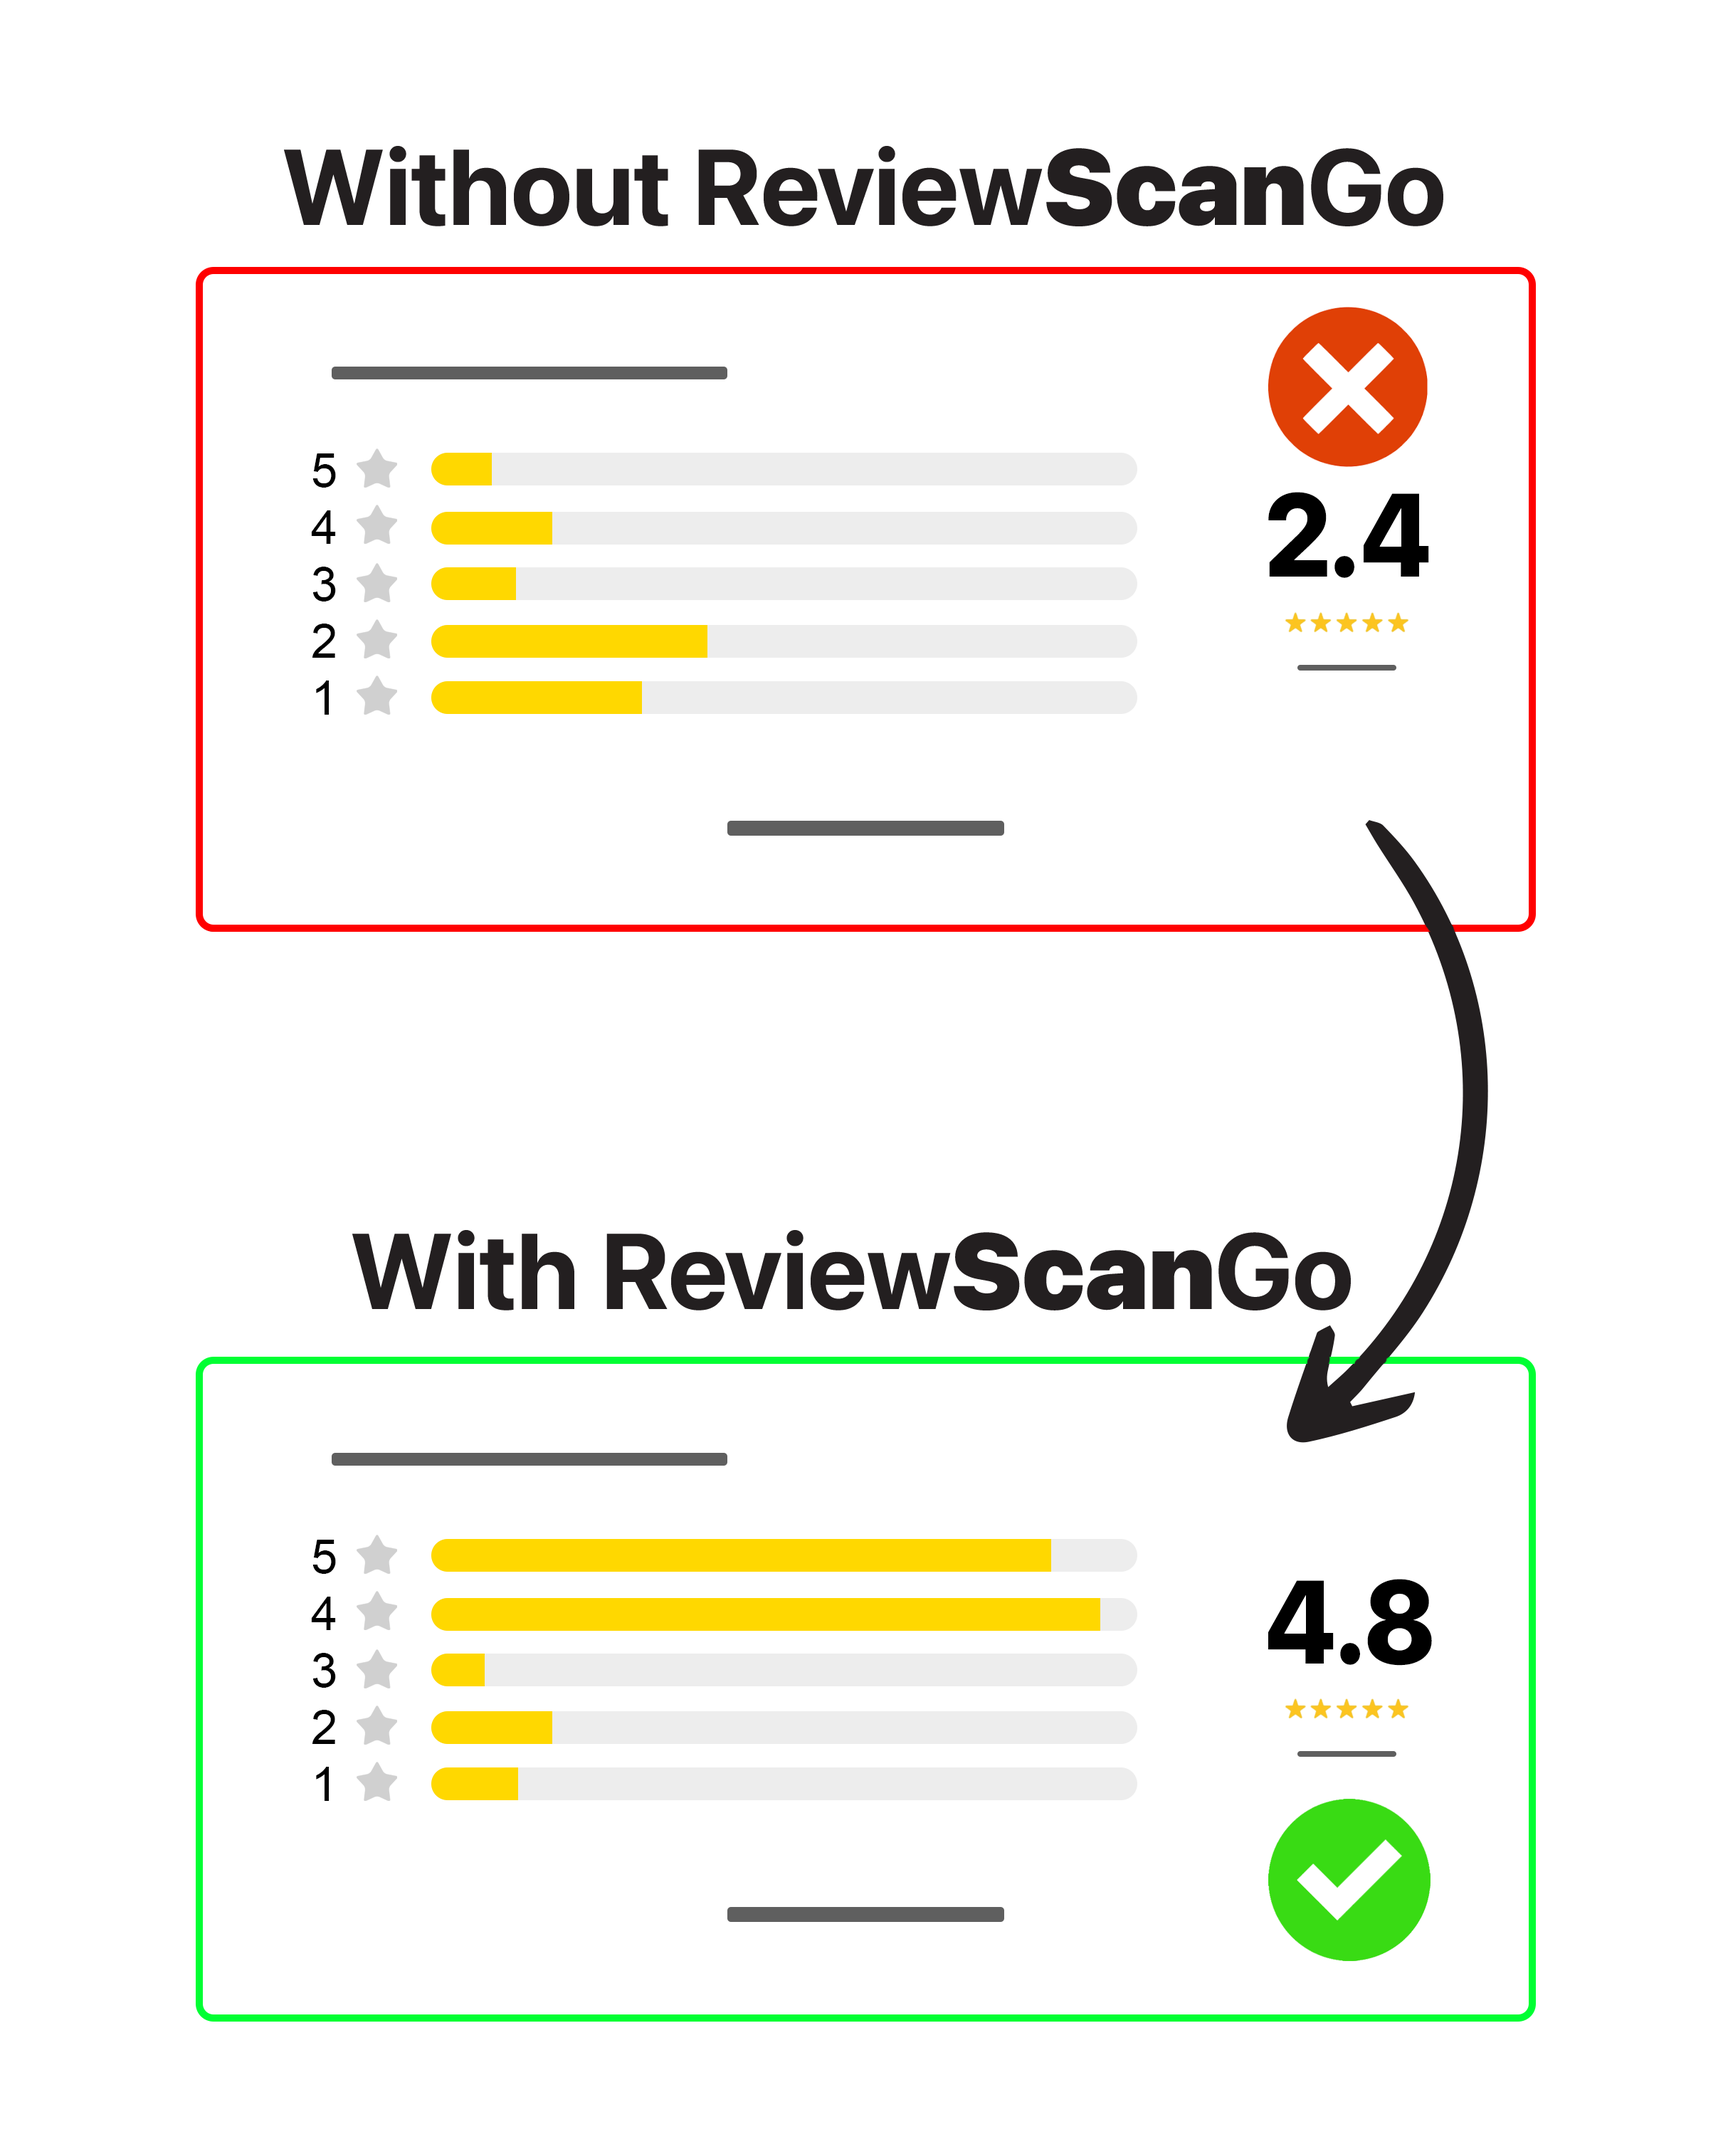
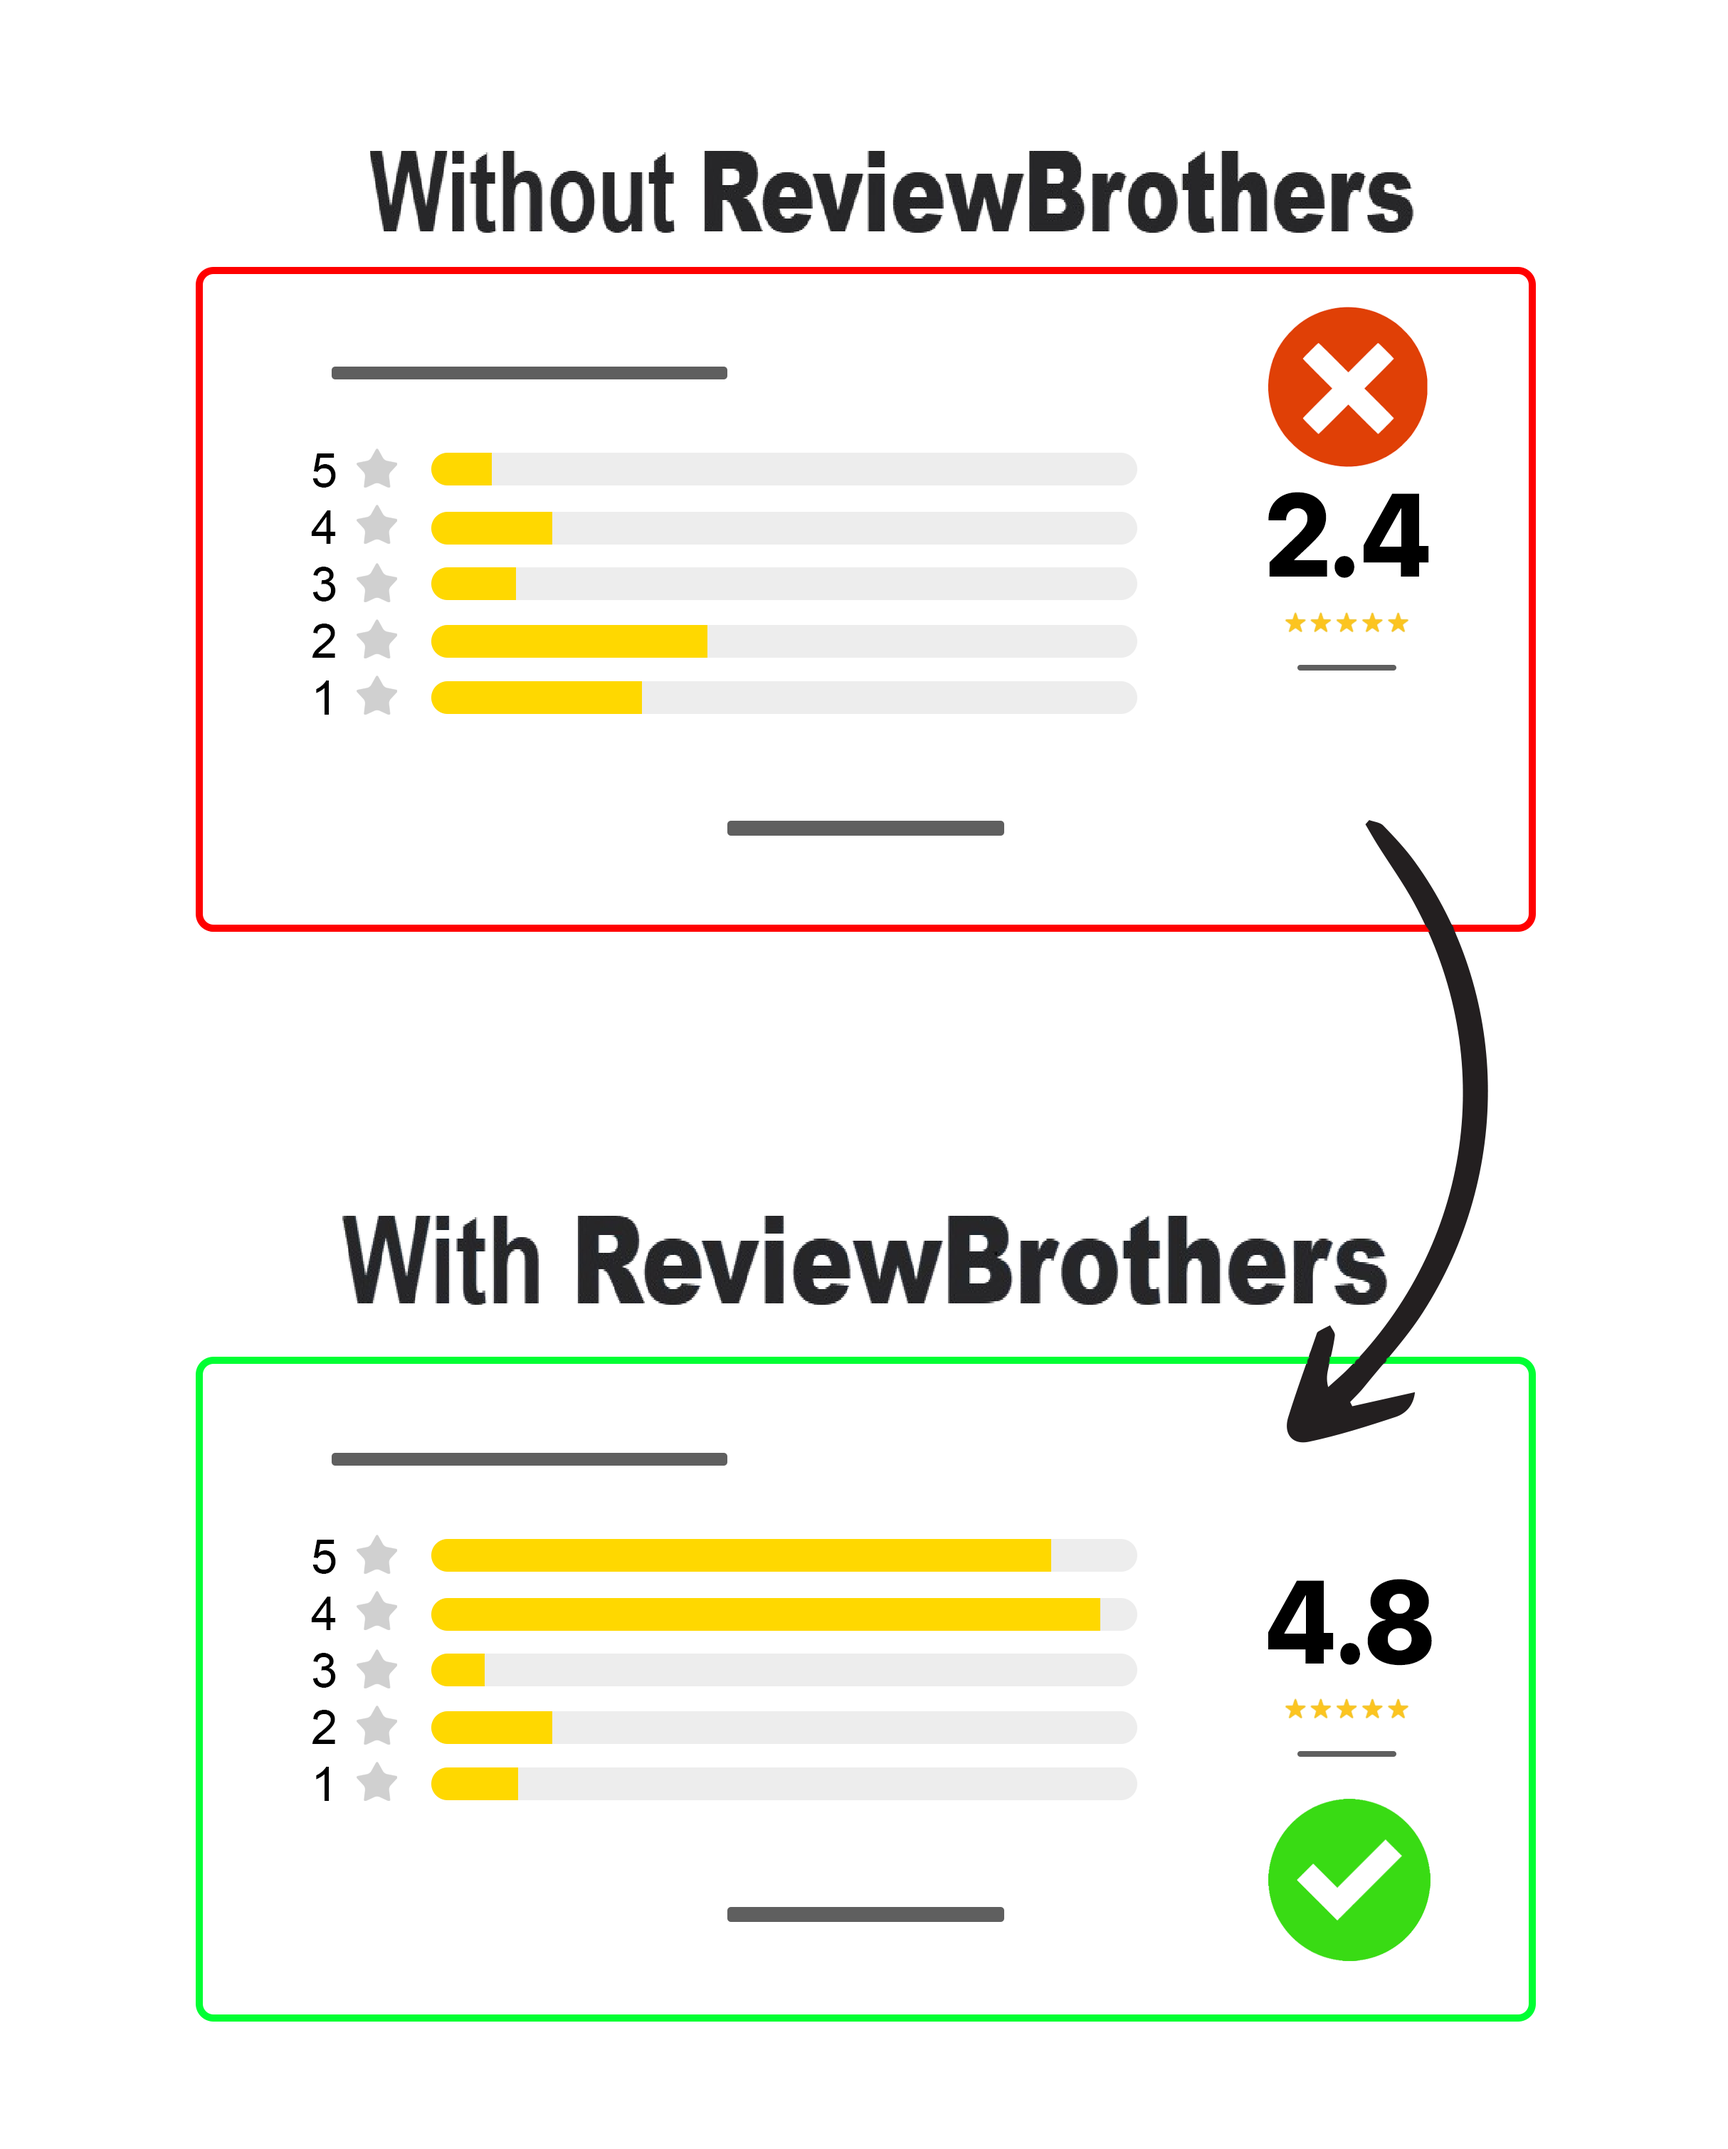
Complete landing page 1

Changed region(s): [[0.1544, 0.0623, 0.834, 0.1245], [0.1853, 0.5605, 0.8031, 0.6227]]

diff --git a/src/components/home/ProductReviewFeature.tsx b/src/components/home/ProductReviewFeature.tsx
@@ -1,0 +1,71 @@
+import React from "react";
+import { Star, Mail, Rocket } from "lucide-react";
+
+interface FeatureItemProps {
+  icon: React.ReactNode;
+  title: string;
+  description: string;
+}
+
+const FeatureItem: React.FC<FeatureItemProps> = ({
+  icon,
+  title,
+  description,
+}) => {
+  return (
+    <div className="flex items-start gap-6 mb-8">
+      <div className="flex-shrink-0">
+        <div className="w-16 h-16 rounded-full border-2 border-gray-300 flex items-center justify-center">
+          {icon}
+        </div>
+      </div>
+      <div className="flex-1">
+        <h3 className="text-xl font-semibold text-gray-800 mb-2">{title}</h3>
+        <div className="bg-teal-50 p-4 rounded-md">
+          <p className="text-gray-600">{description}</p>
+        </div>
+      </div>
+    </div>
+  );
+};
+
+const ProductReviewsFeature: React.FC = () => {
+  return (
+    <div className="max-w-4xl mx-auto p-6">
+      {/* <h1 className="text-4xl font-bold text-teal-500 mb-4"> */}
+      <h1 className="text-4xl font-bold text-secondary mb-4">
+        Without <span className="font-[900]">ReviewBrothers</span> <br />
+        With <span className="font-[900]">ReviewBrothers</span> <br /> Boost
+        Your Sales with Better Product Reviews
+      </h1>
+
+      <p className="text-gray-600 text-lg mb-12">
+        Increase Customer Engagement by making it easy for your shoppers to
+        connect with your brand, redeem gifts, and leave you valuable feedback
+        and product reviews
+      </p>
+
+      <div className="space-y-4">
+        <FeatureItem
+          icon={<Star className="w-8 h-8 text-gray-700" />}
+          title="Boost Reviews and Ratings"
+          description="Get more customer feedback and increase your product ratings with seamless review requests"
+        />
+
+        <FeatureItem
+          icon={<Mail className="w-8 h-8 text-gray-700" />}
+          title="Build Your Email List"
+          description="Collect customer details and email addresses for future marketing campaigns and product launches"
+        />
+
+        <FeatureItem
+          icon={<Rocket className="w-8 h-8 text-gray-700" />}
+          title="Easy 5-Step Integration"
+          description="Simple to set up and integrate into your existing product packaging and sales process"
+        />
+      </div>
+    </div>
+  );
+};
+
+export default ProductReviewsFeature;

diff --git a/src/components/ui/accordion.tsx b/src/components/ui/accordion.tsx
@@ -1,10 +1,10 @@
-import * as React from "react"
-import * as AccordionPrimitive from "@radix-ui/react-accordion"
-import { ChevronDown } from "lucide-react"
+import * as React from "react";
+import * as AccordionPrimitive from "@radix-ui/react-accordion";
+import { ChevronDown } from "lucide-react";
 
-import { cn } from "@/lib/utils"
+import { cn } from "@/lib/utils";
 
-const Accordion = AccordionPrimitive.Root
+const Accordion = AccordionPrimitive.Root;
 
 const AccordionItem = React.forwardRef<
   React.ElementRef<typeof AccordionPrimitive.Item>,
@@ -15,8 +15,8 @@ const AccordionItem = React.forwardRef<
     className={cn("border-b", className)}
     {...props}
   />
-))
-AccordionItem.displayName = "AccordionItem"
+));
+AccordionItem.displayName = "AccordionItem";
 
 const AccordionTrigger = React.forwardRef<
   React.ElementRef<typeof AccordionPrimitive.Trigger>,
@@ -26,7 +26,7 @@ const AccordionTrigger = React.forwardRef<
     <AccordionPrimitive.Trigger
       ref={ref}
       className={cn(
-        "flex flex-1 items-center justify-between py-4 font-medium transition-all hover:underline [&[data-state=open]>svg]:rotate-180",
+        "flex flex-1 items-center justify-between py-4 font-medium transition-all hover:underline data-[state=open]:text-[#FF9900] [&[data-state=open]>svg]:rotate-180",
         className
       )}
       {...props}
@@ -35,8 +35,8 @@ const AccordionTrigger = React.forwardRef<
       <ChevronDown className="h-4 w-4 shrink-0 transition-transform duration-200" />
     </AccordionPrimitive.Trigger>
   </AccordionPrimitive.Header>
-))
-AccordionTrigger.displayName = AccordionPrimitive.Trigger.displayName
+));
+AccordionTrigger.displayName = AccordionPrimitive.Trigger.displayName;
 
 const AccordionContent = React.forwardRef<
   React.ElementRef<typeof AccordionPrimitive.Content>,
@@ -49,8 +49,8 @@ const AccordionContent = React.forwardRef<
   >
     <div className={cn("pb-4 pt-0", className)}>{children}</div>
   </AccordionPrimitive.Content>
-))
+));
 
-AccordionContent.displayName = AccordionPrimitive.Content.displayName
+AccordionContent.displayName = AccordionPrimitive.Content.displayName;
 
-export { Accordion, AccordionItem, AccordionTrigger, AccordionContent }
+export { Accordion, AccordionItem, AccordionTrigger, AccordionContent };

diff --git a/src/components/home/FAQ.tsx b/src/components/home/FAQ.tsx
@@ -13,7 +13,7 @@ const faqItems = [
   {
     question: "Is the Smart Funnel really safe to use on Amazon?",
     answer:
-      "Absolutely. Our Smart Funnel is 100% compliant with Amazon’s review policies because it avoids the two biggest violations that get sellers in trouble:\n\n No rewards in exchange for reviews – Your customers can claim their free gift without being required to leave a review. The funnel separates the reward from the review process entirely.\n\n No pressure for only positive reviews – We never ask for a 'positive' review — we simply guide happy customers toward the review step, and respectfully stop the funnel if the feedback is negative.\n\n👉 This means: no manipulation, no risk — and fully within Amazon’s Terms of Service.",
+      "Absolutely. Our Smart Funnel is 100% compliant with Amazon’s review policies because it avoids the two biggest violations that get sellers in trouble:\n\n ✅ No rewards in exchange for reviews – Your customers can claim their free gift without being required to leave a review. The funnel separates the reward from the review process entirely.\n\n✅  No pressure for only positive reviews – We never ask for a 'positive' review — we simply guide happy customers toward the review step, and respectfully stop the funnel if the feedback is negative.\n\n👉 This means: no manipulation, no risk — and fully within Amazon’s Terms of Service.",
   },
   {
     question: "Why is it called a Smart Funnel?",

diff --git a/src/components/home/SupportedCountries.tsx b/src/components/home/SupportedCountries.tsx
@@ -91,7 +91,7 @@ const SupportedCountries = () => {
         <div className="mb-16">
           <div className="grid grid-cols-3 sm:grid-cols-5 md:grid-cols-7 lg:grid-cols-11 gap-6 max-w-11xl mx-auto">
             {countries.map((country, index) => (
-              <AnimatedCard key={country.code} delay={40 * index}>
+              <AnimatedCard key={country.code} delay={100}>
                 <div className="rounded-lg p-2 flex flex-col items-center text-center hover:shadow-md transition w-full">
                   <div className="w-20 h-20 flex items-center justify-center overflow-hidden rounded-full">
                     <img

diff --git a/src/pages/Index.tsx b/src/pages/Index.tsx
@@ -12,6 +12,7 @@ import StatsCounter from "@/components/home/StatsCounter";
 import SupportedCountries from "@/components/home/SupportedCountries";
 import BenefitsSection from "@/components/home/BenefitsSection";
 import Demo from "@/components/home/SmartFunnelDemo";
+import MoreSocialProof from "@/components/home/MoreSocialProof";
 
 const Index = () => {
   const [loading, setLoading] = useState(true);
@@ -119,6 +120,7 @@ const Index = () => {
             <RecentReviews />
             <Pricing />
             <BenefitsSection />
+            <MoreSocialProof />
             <Features />
             <FAQ />
           </main>

diff --git a/src/components/home/MoreSocialProof.tsx b/src/components/home/MoreSocialProof.tsx
@@ -1,0 +1,23 @@
+import React from "react";
+import ProductReviewsFeature from "./ProductReviewFeature";
+
+const MoreSocialProof: React.FC = () => {
+  return (
+    <div className="bg-gray-50">
+      <div className=" mx-auto p-6 flex flex-row container items-center bg-gray-50">
+        <div className="w-[40%]">
+          <img
+            src="images/landing/with_rsg.png"
+            alt="Social Proof"
+            className="w-full"
+          />
+        </div>
+        <div className="w-[60%]">
+          <ProductReviewsFeature />
+        </div>
+      </div>
+    </div>
+  );
+};
+
+export default MoreSocialProof;
